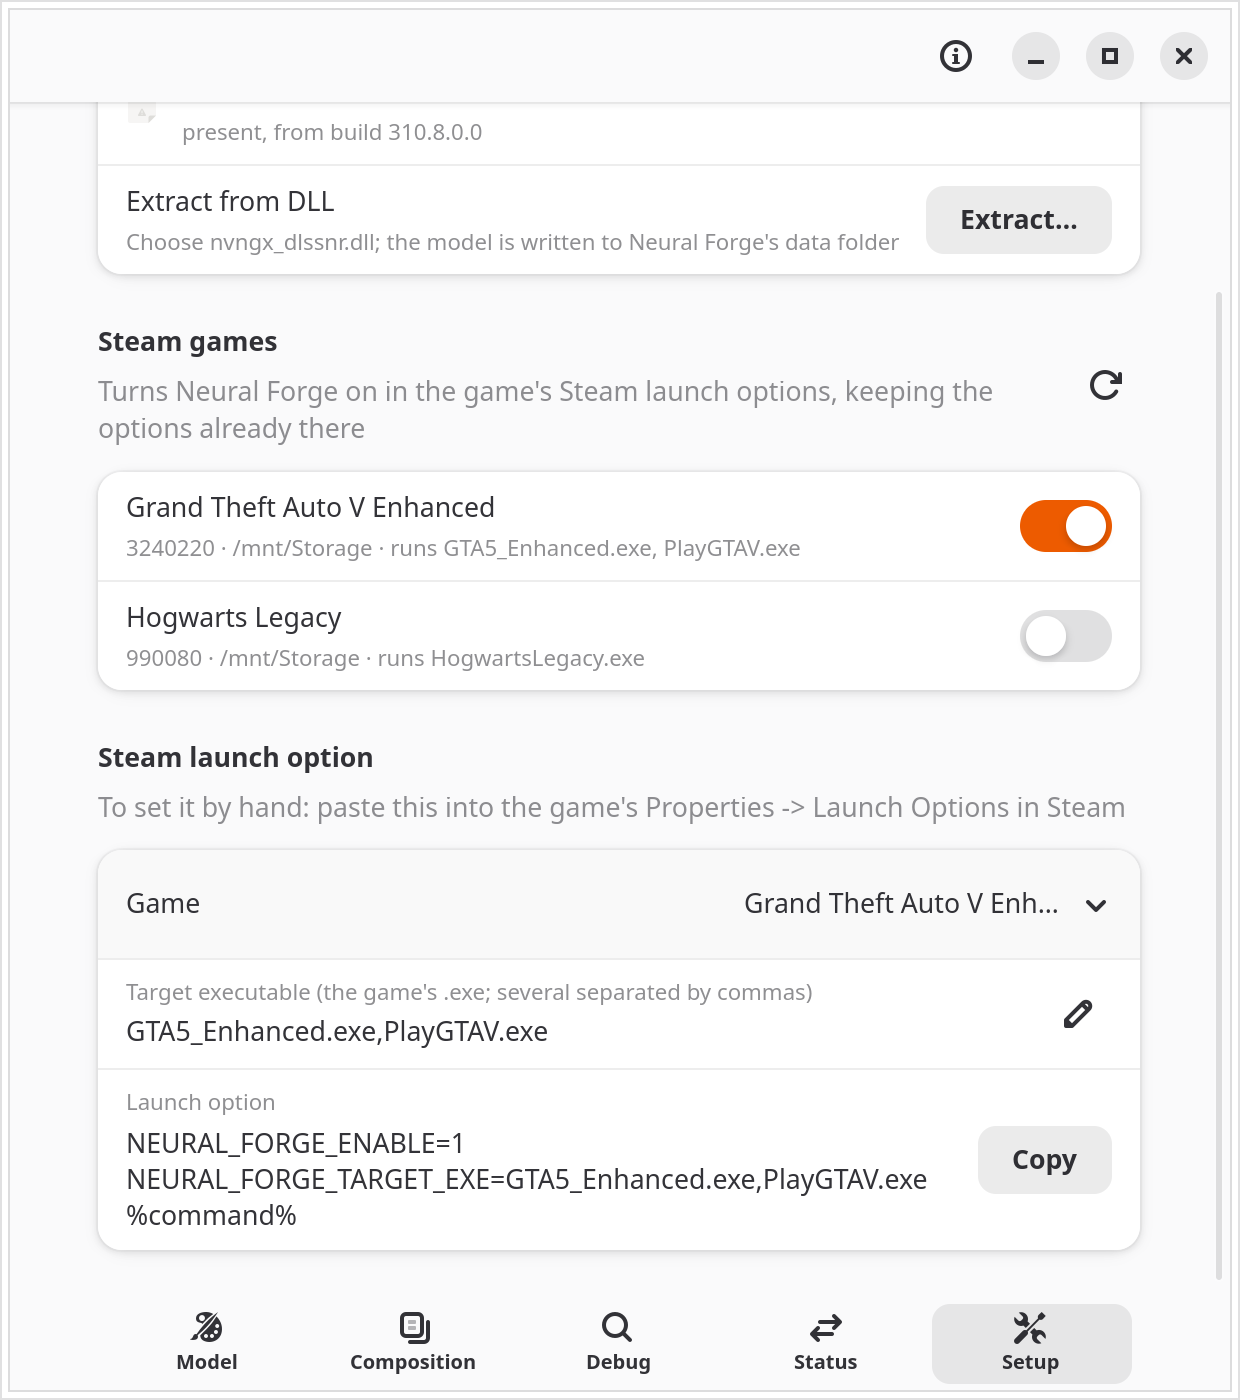
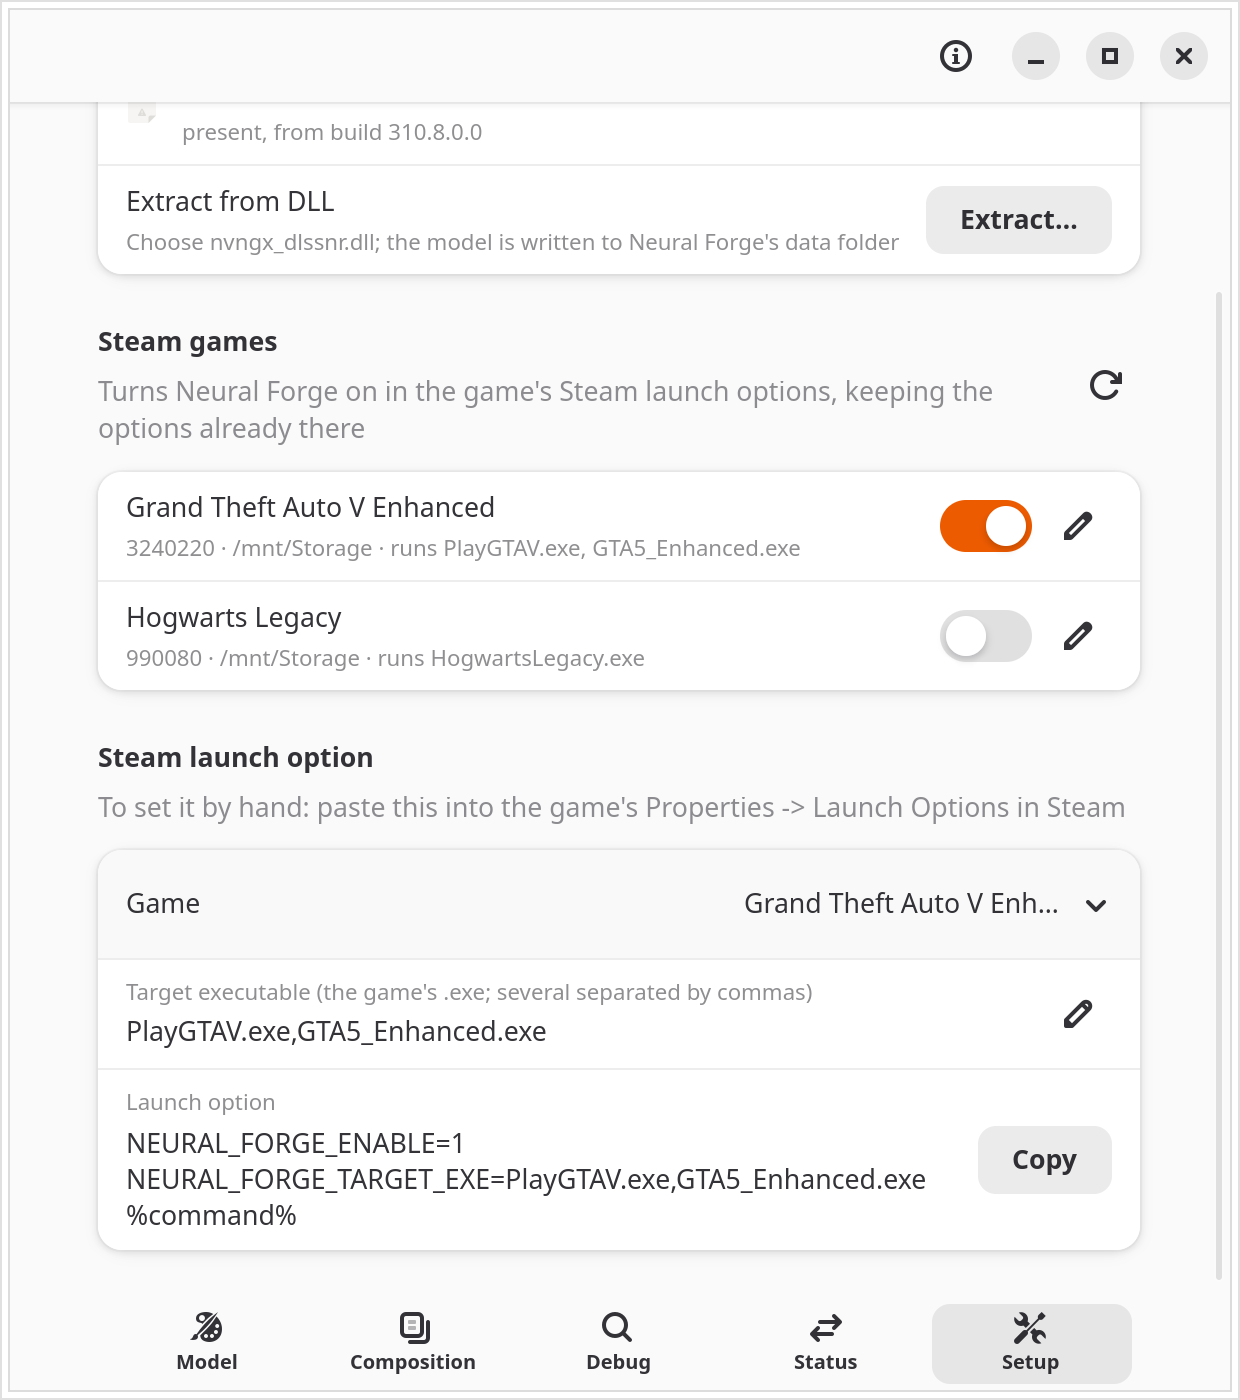
Pin check, licences and docs: R2 review follow-ups
- pin-check.yml retries upstream three times and, failing, notes it in the run summary without
  failing the run; the standing issue carries a pin-check label and is reopened when a pin falls
  behind again instead of a new one being opened.
- gen_third_party_crates.py no longer counts AUTHORS files as licence texts.
- ATTRIBUTION and DLL_FINDINGS_AUDIT point at the fetched OpenDLSS-NR and the shipped licence text,
  not the removed vendored files.
- README, PHASE1, ARCHITECTURE and the 3.4.0 changelog: the folder search, the target editor, the
  doctor's excluded-target finding. The Setup screenshot is retaken with Steam's app cache data,
  so the target reads PlayGTAV.exe,GTA5_Enhanced.exe as it does on a real install, and shows the
  edit buttons.

diff --git a/scripts/gen_third_party_crates.py b/scripts/gen_third_party_crates.py
@@ -35,7 +35,7 @@ LICENSE_OVERRIDES = {
 }
 
 # A crate's licence and notice files, by name.
-LICENCE_FILE = re.compile(r"^(licen[cs]e|copying|notice|copyright|unlicense|authors)([-_.].*)?$", re.I)
+LICENCE_FILE = re.compile(r"^(licen[cs]e|copying|notice|copyright|unlicense)([-_.].*)?$", re.I)
 
 # The native code compiled into the layer: (name, licence, files under tools/native).
 NATIVE = [
@@ -120,7 +120,6 @@ def licence_files(pkg):
     extra = [d / pkg["license_file"]] if pkg.get("license_file") else []
     while True:
         found = sorted(f for f in d.iterdir() if f.is_file() and LICENCE_FILE.match(f.name)) if d.is_dir() else []
-        found = [f for f in found if not f.name.lower().startswith("authors")] + [f for f in found if f.name.lower().startswith("authors")]
         if found or stop is None or d == stop or d == d.parent:
             break
         d = d.parent
@@ -184,7 +183,7 @@ def self_test():
     assert names == ["lib", "shared"], names
     for name in ["LICENSE", "LICENSE-MIT", "license.txt", "COPYING", "NOTICE", "UNLICENSE", "LICENCE-APACHE"]:
         assert LICENCE_FILE.match(name), name
-    for name in ["README.md", "Cargo.toml", "licensing.rs"]:
+    for name in ["README.md", "Cargo.toml", "licensing.rs", "AUTHORS", "AUTHORS.md"]:
         assert not LICENCE_FILE.match(name), name
     print("gen_third_party_crates self-test ok")
 

diff --git a/ATTRIBUTION.md b/ATTRIBUTION.md
@@ -23,8 +23,8 @@ adapted, or taken from DLSS5VKLayer's real source, not just its documented behav
 | DLSS5VKLayer, same files | The overall two-leg structure (capture leg encodes a proxy and downloads it; a helper round trip happens in between; a compose leg uploads the answer and recomposes onto the swapchain image) and the general shape of the luminance-ratio transfer (`ratio = originalLuma / proxyLuma` below the proxy's level, a headroom-preserving inverse above it, blended via `lerp` with a saturated strength, hue corrected in OkLab) — Neural Forge already had an equivalent, independently-derived version of this exact ratio math (`composition::gpu::UpgradeToneMap`/the "classic" non-`carry_delta` dispatch path, built earlier from the RenoDX design below; removed in 3.4.0 with the synchronous dispatch that alone still reached it) that had simply never been wired into the live per-present hot path. Confirming DLSS5VKLayer's own resolve function uses the same shape of math is what justified routing the hot path through it instead of `carry_delta`, rather than porting new math wholesale. |
 | [DLSS5VKLayer PR #22](https://github.com/bmitch87/DLSS5VKLayer/pull/22) (not yet merged upstream at the time this was read), commit `4aa730c0` ("Bound the fence waits, including the two in the game's present path") — description read, no code copied (the two codebases' fence/wait plumbing don't share enough shape to port directly) | **The idea**, applied at every `wait_for_fences` call this layer can reach synchronously from the game's own present thread (`crates/layer/src/capture.rs`, `crates/layer/src/composition/gpu.rs`): pass a generous, finite timeout (`crate::FENCE_WAIT_TIMEOUT`, 5s) instead of `u64::MAX`, and treat a timeout exactly like the ordinary Vulkan error each call site already knew how to fail open from. The commit's own reasoning is what this project adopted: a lost device already surfaces as `VK_ERROR_DEVICE_LOST`, so an infinite wait was never guarding against that — it was guarding against a driver stall that doesn't lose the device, where the call simply never returns and nothing gets logged. Read while investigating Neural Forge's own long-unexplained freeze during GTA V's loading screens (`docs/UPSTREAM_PARITY.md`, "Not done yet"); landed in v0.1.85. Extended (the helper described from here on was removed in 3.0.0) to the helper process's own `CreateFeature` setup wait (`crates/helper/src/ngx.rs::create_feature_at`) in v0.1.86, with its own recovery: a timeout there leaks the setup command pool/fence rather than free them, since a bounded wait's timeout (unlike the old unconditional wait) no longer guarantees nothing is still in flight. The helper's several `device_wait_idle` calls were deliberately left unbounded in v0.1.86 (and remain so in v0.1.87) — `device_wait_idle` has no timeout in the Vulkan API to begin with. `frame.rs`'s per-frame evaluate/transfer waits, also left unbounded in v0.1.86 for the same "load-bearing safety invariant" reason, were bounded in v0.1.87 once a way to preserve that invariant without a timeout swap alone was worked out: `FrameResources::stalled`, set on a genuine timeout, latches the whole instance so nothing touches its `cmd`/`fence` again and `main.rs`'s `retire_frame_resources` leaks it instead of destroying it on the next resize. |
 | [DLSS5VKLayer PR #22](https://github.com/bmitch87/DLSS5VKLayer/pull/22), commit `0b41c98c` ("A frame trace that is still readable after it has been useful") — description read, no code copied (a lock-free ring buffer is not the implementation here; see below) | **The idea** of an always-on, per-process ring of recent pipeline-stage markers, dumped only when a stall is actually detected, so a real freeze is diagnosable from the log instead of guessed at: `crates/layer/src/breadcrumbs.rs` (v0.1.86). Upstream's own version (and this idea's ultimate source, credited in upstream's commit message) is a lock-free 64-entry ring with relaxed atomics, framed from LCPD15/DXL's `FreezeWatchdog.h`/`.cpp` (AGPL-3.0) — description only, no code taken from either LCPD15/DXL or DLSS5VKLayer. Neural Forge's implementation is a fresh, simpler one: a `Mutex`-guarded fixed array, not lock-free atomics, since this project's marker rate (once per pipeline-stage transition, not once per hardware event) doesn't need it. |
-| [OpenDLSS-NR](https://github.com/maanHimself/OpenDLSS-NR) (maan), MIT, commit `9d08f41`: `docs/frame.md` read, no code or constants copied | **The reset rule** in `crates/protocol/src/history.rs` (1.0.1): the model's history counts only for the frame that directly follows it. OpenDLSS-NR's pipeline gives a first frame, a reset, or a pixel with no previous position a blend weight of zero, and keeps that "has history" decision separate from the motion value. NGX exposes only a whole-frame `DLSSNR.Reset`, so Neural Forge applies the same rule per frame: it resets on the first evaluate after a request went unevaluated or after a pause longer than 500 ms. The full comparison is in `docs/OPENDLSS_REVIEW.md`. The MIT text is `third_party/opendlss-nr/LICENSE`. |
-| [OpenDLSS-NR](https://github.com/maanHimself/OpenDLSS-NR) (maan), MIT, commit `9d08f41`: **source used as is, with local patches** (fetched at that commit at build time; vendored in `third_party/opendlss-nr` until 3.4.0) | **The native backend** (`crates/native`): OpenDLSS-NR's host code (`src/`, minus its command-line tool), its GLSL compute kernels (`shaders/`) and its PTX generators (`scripts/ptx/`), unmodified apart from the local patches in `third_party/opendlss-nr/patches/`, listed with their reasons in `third_party/opendlss-nr/UPSTREAM.md`; `scripts/fetch-native-tools.sh` fetches the commit and applies them. Its `LICENSE` and `NOTICE` ship in the AppImage's `THIRD_PARTY_LICENSES.txt`. The kernels are compiled and generated at build time and embedded into the layer; none of NVIDIA's code or weights is included. MIT text: `third_party/opendlss-nr/LICENSE`, with upstream's `NOTICE`. |
+| [OpenDLSS-NR](https://github.com/maanHimself/OpenDLSS-NR) (maan), MIT, commit `9d08f41`: `docs/frame.md` read, no code or constants copied | **The reset rule** in `crates/protocol/src/history.rs` (1.0.1): the model's history counts only for the frame that directly follows it. OpenDLSS-NR's pipeline gives a first frame, a reset, or a pixel with no previous position a blend weight of zero, and keeps that "has history" decision separate from the motion value. NGX exposes only a whole-frame `DLSSNR.Reset`, so Neural Forge applies the same rule per frame: it resets on the first evaluate after a request went unevaluated or after a pause longer than 500 ms. The full comparison is in `docs/OPENDLSS_REVIEW.md`. The MIT text is OpenDLSS-NR's `LICENSE`, shipped in the AppImage's `THIRD_PARTY_LICENSES.txt`. |
+| [OpenDLSS-NR](https://github.com/maanHimself/OpenDLSS-NR) (maan), MIT, commit `9d08f41`: **source used as is, with local patches** (fetched at that commit at build time; vendored in `third_party/opendlss-nr` until 3.4.0) | **The native backend** (`crates/native`): OpenDLSS-NR's host code (`src/`, minus its command-line tool), its GLSL compute kernels (`shaders/`) and its PTX generators (`scripts/ptx/`), unmodified apart from the local patches in `third_party/opendlss-nr/patches/`, listed with their reasons in `third_party/opendlss-nr/UPSTREAM.md`; `scripts/fetch-native-tools.sh` fetches the commit and applies them. Its `LICENSE` and `NOTICE` ship in the AppImage's `THIRD_PARTY_LICENSES.txt`. The kernels are compiled and generated at build time and embedded into the layer; none of NVIDIA's code or weights is included. |
 | [OpenDLSS-NR](https://github.com/maanHimself/OpenDLSS-NR) (maan), MIT: its documentation of the proxy transform read, **design only, no code** | **The pre-upscaler path's HDR encode** (2.0; `crates/layer/src/preupscale/hdr.rs`, `shaders/preupscale_encode.comp` and `preupscale_decode.comp`): the scene divided by a paper white, the per-channel shoulder above 0.75 (`0.75 + 0.25 (1 - exp(-5.770780 (v - 0.75)))`) and sRGB before the model, as OpenDLSS-NR documents its proxy; the inverse on write-back, the exposure multiply and the paper white of 3 are this project's own, chosen by measurement on GTA V Enhanced (`docs/PRE_UPSCALER_DESIGN.md`, "E1b"). |
 | [DLSS5oneclick-forlinux](https://github.com/Mhsbrian/DLSS5oneclick-forlinux) (Copyright (c) 2026 Faisal Bahashwan), MIT, commit `b0f16ff`: `src/diagnose.rs` read, **technique only, no code** | **How `doctor` reads logs** (`crates/supervisor/src/doctor.rs`, `crates/protocol/src/state_log.rs`): every finding is driven by the component's own log grammar matched exactly, the newest matching line is the verdict, and the tests feed lines that only contain a match as substring traps. The checks, the state log and its grammar are this project's own. Its MIT license permits this use; the notice: "Permission is hereby granted, free of charge, to any person obtaining a copy of this software and associated documentation files (the "Software"), to deal in the Software without restriction ... The above copyright notice and this permission notice shall be included in all copies or substantial portions of the Software." |
 | [Dagherbou/OptiScaler_DLSSNR](https://github.com/Dagherbou/OptiScaler_DLSSNR), GPL-3.0: **design only, no code** | **The idea of reading the game's exposure texture** to scale the HDR scene before the encode. Neural Forge reads DLSS's own 1x1 exposure input on the GPU at each hold (the image is found from DLSS's registered views, not from OptiScaler's code). |
@@ -72,10 +72,11 @@ record of what it took.
 - **xenmods** ([DLSSNR-Cost-Scaler](https://github.com/xenmods/DLSSNR-Cost-Scaler), MIT): the
   native + edit technique (transfer mode 2). No code was copied.
 - **maan** ([OpenDLSS-NR](https://github.com/maanHimself/OpenDLSS-NR), MIT): the network the layer
-  runs since 3.0 (vendored in `third_party/opendlss-nr`, built by `crates/native`, and the ported
+  runs since 3.0 (fetched at a pinned commit with this project's patches, `third_party/opendlss-nr`,
+  built by `crates/native`, and the ported
   preprocess and composite shaders), and before that the history reset rule
   (`crates/protocol/src/history.rs`) and the pre-upscaler path's proxy encode and shoulder. The MIT
-  text is `third_party/opendlss-nr/LICENSE`.
+  text ships in the AppImage's `THIRD_PARTY_LICENSES.txt`, from the fetched source.
 - **OptiScaler and Dagherbou/OptiScaler_DLSSNR** (GPL-3.0): the pre-SR idea (running the model
   before the upscaler) and reading the game's exposure texture. Design only, no code.
 
@@ -110,8 +111,9 @@ for the derived code). RenoDX's MIT license applies to the design
 this project's color composition math is independently derived from; xenmods'
 DLSSNR-Cost-Scaler (MIT) is referenced above for provenance only, matching
 DLSS5VKLayer's own attribution of it, and no code from it appears in this repository.
-OpenDLSS-NR's source is vendored in `third_party/opendlss-nr` (the native backend, see above) under its
-MIT notice: `third_party/opendlss-nr/LICENSE` and upstream's `NOTICE` ship with every build, and the same
+OpenDLSS-NR's source is fetched at a pinned commit and patched at build time (the native backend, see
+above) under its MIT notice: its `LICENSE` and `NOTICE` ship with every build in
+`THIRD_PARTY_LICENSES.txt`, and the same
 license covers the documented design the history reset follows.
 
 The Steam and report code adapted from DLSS5oneclick-forlinux (see above) is used under its MIT license:

diff --git a/README.md b/README.md
@@ -17,7 +17,7 @@ Repository: [labj1987/neural-forge](https://github.com/labj1987/neural-forge).
 
 | Model settings | Setup | Status |
 |---|---|---|
-| ![Model tab: the Neural rendering switch, style, intensity, local tone, local and skin structure, auto mask and the toggle key](screenshots/settings.png) | ![Setup tab: the model present from build 310.8.0.0, the Steam games with their switches and the executables they target, and the launch option NEURAL_FORGE_ENABLE=1 NEURAL_FORGE_TARGET_EXE=GTA5_Enhanced.exe,PlayGTAV.exe %command% for Grand Theft Auto V Enhanced](screenshots/setup.png) | ![Status tab: telemetry, layer state, the Model placement line and the model](screenshots/status.png) |
+| ![Model tab: the Neural rendering switch, style, intensity, local tone, local and skin structure, auto mask and the toggle key](screenshots/settings.png) | ![Setup tab: the model present from build 310.8.0.0, the Steam games with their switches, the executables they target and an edit button each, and the launch option NEURAL_FORGE_ENABLE=1 NEURAL_FORGE_TARGET_EXE=PlayGTAV.exe,GTA5_Enhanced.exe %command% for Grand Theft Auto V Enhanced](screenshots/setup.png) | ![Status tab: telemetry, layer state, the Model placement line and the model](screenshots/status.png) |
 
 The screenshots show 3.0.0 with default settings and no game running.
 
@@ -236,9 +236,11 @@ stay; Neural Forge does not touch its files.
    ```
 
    The executable is found from Steam's own data for the game (the program Steam starts, the
-   executables beside it, and an Unreal Engine game's real binary), so only the game itself can use
+   executables beside it, an Unreal Engine game's real binary, and the large executables anywhere in
+   the game's folder), so only the game itself can use
    Neural Forge, never a store launcher or helper it starts first; the games list shows it. To name
-   it yourself: `neural-forge-cli enable GAME --target-exe Game.exe` (remembered for that game, also
+   it yourself: `neural-forge-cli enable GAME --target-exe Game.exe` or the edit button beside the game
+   (remembered for that game, also
    when the GUI switches it on again; `--target-exe auto` goes back to the found one). With Steam
    running, the list is read-only: pick the game in the "Steam launch option" group below it, copy
    the launch option and paste it into the game's Properties > General > Launch options instead. A

diff --git a/CHANGELOG.md b/CHANGELOG.md
@@ -16,7 +16,12 @@ fixes across the model before the upscaler, the app and its diagnosis.
   A game switched on with an earlier version has none named yet: switch it off and on again, or run
   `neural-forge-cli enable GAME` (Diagnose lists these games). `--target-exe` names the executable by
   hand and is remembered for that game; a game whose executable happens to be called like a launcher
-  works when it is the one named.
+  works when it is the one named. Games whose launcher sits in a folder of its own (The Elder Scrolls
+  Online, FINAL FANTASY XIV) get the real game executable from anywhere in their folder.
+- Each game in the Setup tab has an edit button to choose the executable Neural Forge targets, from
+  those found in the game's folder (best first) or by typing a name.
+- Diagnose now says when a game ran but its target left out the executable it ran as, and gives the
+  exact command to fix it.
 - Without a named executable, store launchers and helpers can no longer take Neural Forge either, and
   a program that stops showing frames gives it up after 10 seconds.
 - Switching a game on also covers the Steam account you are signed in with when it has never run the
@@ -64,7 +69,8 @@ fixes across the model before the upscaler, the app and its diagnosis.
   `NEURAL_FORGE_LOG` is rotated at 64 MB.
 - Diagnose, `doctor`, the report and `shmctl status` only look now: they no longer create the settings
   channel or Neural Forge's folders. A hung `nvidia-smi` or `journalctl` can no longer freeze them, or
-  the app's Diagnose and Save report buttons: it is stopped after 10 seconds. Diagnose checks the
+  the app's Diagnose and Save report buttons: they return after 10 seconds, even when the driver keeps
+  the command from stopping. Diagnose checks the
   extracted model's files, not only its description, and warns about a game switched on in a Flatpak
   Steam next to a native one.
 - The report also hides your computer's name, finds the game's Proton in the Steam install the game is

diff --git a/docs/PHASE1.md b/docs/PHASE1.md
@@ -70,9 +70,17 @@ target). The supervisor always sets it when it switches a game on (GUI, `neural-
 the program Steam's own launch entry for the game starts (`appcache/appinfo.vdf`, the entries for
 the installed branch), the other executables beside it (a store bootstrapper such as `PlayGTAV.exe`
 starts `GTA5_Enhanced.exe` from the same folder; anti-cheat's `start_protected_game.exe` its
-neighbour) and an Unreal Engine game's `<Project>/Binaries/Win64` binary, leaving out redistributable
-installers, anti-cheat services, crash reporters and store launchers. A target chosen by hand
-(`enable GAME --target-exe`) is kept in `config.ini` (`target_exe_<appid>`) and wins. The Steam AppID
+neighbour), an Unreal Engine game's `<Project>/Binaries/Win64` binary, and from the whole install
+folder (six folders deep) every executable at least a quarter the size of the largest, which finds a
+game whose launcher has a folder of its own (ESO's `game/client/eso64.exe`, FINAL FANTASY XIV's
+`game/ffxiv_dx11.exe`). Redistributable installers, anti-cheat services, crash reporters and
+launchers (bootstrappers, updaters, patchers) are left out; a launch entry that is a launcher stays
+only when nothing else qualifies. A target chosen by hand (`enable GAME --target-exe`, or the Setup
+tab's per-game editor, which offers the folder's executables best first) is kept in `config.ini`
+(`target_exe_<appid>`) and wins. When a process the target leaves out makes a Vulkan device, the
+layer writes a `target-excluded` line to the state log (once per process, not for known launchers
+and helpers), and `doctor` reports a game that ran as an executable its target missed, with the
+command that targets it. The Steam AppID
 alone is insufficient: launchers inherit it too.
 
 Without a target, Wine's own processes, Steam's, store launchers and their helpers (Rockstar, Social

diff --git a/docs/DLL_FINDINGS_AUDIT.md b/docs/DLL_FINDINGS_AUDIT.md
@@ -232,8 +232,8 @@ per-pass overrides of the passes built earlier would be lost (section 4, test 3)
   - Lane 10 is style/128 and lane 11 is tone.
   - Auto-mask on: lane 12 = 1, lane 13 = skin (structure when skin < 0), lane 14 = structure.
   - Auto-mask off: lane 12 = structure, lanes 13 and 14 = -1. These are the sentinels.
-  - The vendored OpenDLSS-NR uses the same lanes (`native-backend:third_party/opendlss-nr/shaders/preprocess.comp:83-88`;
-    the `autoMask ? 1 : -1` push constant in `third_party/opendlss-nr/src/kernels.cpp:520-522` means the same under its `> 0` test).
+  - OpenDLSS-NR (at the pinned commit 9d08f41, fetched into `tools/native/OpenDLSS-NR`) uses the same lanes (`shaders/preprocess.comp:83-88`;
+    the `autoMask ? 1 : -1` push constant in `src/kernels.cpp:520-522` means the same under its `> 0` test).
 - **Composite.** Style 1 and 2 apply the `nrStyle` operator scaled by tone, then blend by intensity
   (`native-backend:crates/layer/shaders/native_composite.comp:88-92,171-178`).
 - **No equivalents.** There is no Preset, ControlMask, UICorrection, Enabled, DepthInverted, depth input or MVecScale.

diff --git a/docs/ARCHITECTURE.md b/docs/ARCHITECTURE.md
@@ -782,7 +782,11 @@ Switching on always writes `NEURAL_FORGE_TARGET_EXE`: `steam::target_for`, the e
 hand for the game (`config.ini`'s `target_exe_<appid>`), else `steam::target_exes`, derived from
 Steam's binary app cache (`appinfo.rs`: `appcache/appinfo.vdf` version 29, the launch entries for
 Windows or Linux and the installed branch) and the game's folder (PHASE1.md, "Target ownership").
-Without the app cache the folder's top-level executables and Unreal's binaries are used. Switching
+Without the app cache the folder's top-level executables and Unreal's binaries are used; either way
+the large executables anywhere in the folder are added (PHASE1.md). `steam::TargetFinder` reads each
+root's app cache once for all games; `candidates` ranks the folder's executables for the GUI's
+per-game target editor. A game's app manifest found twice is the copy whose folder exists, fully
+installed, written last. Switching
 off removes it with the rest; switching on again writes it again.
 
 ## 8. Failure behaviour
